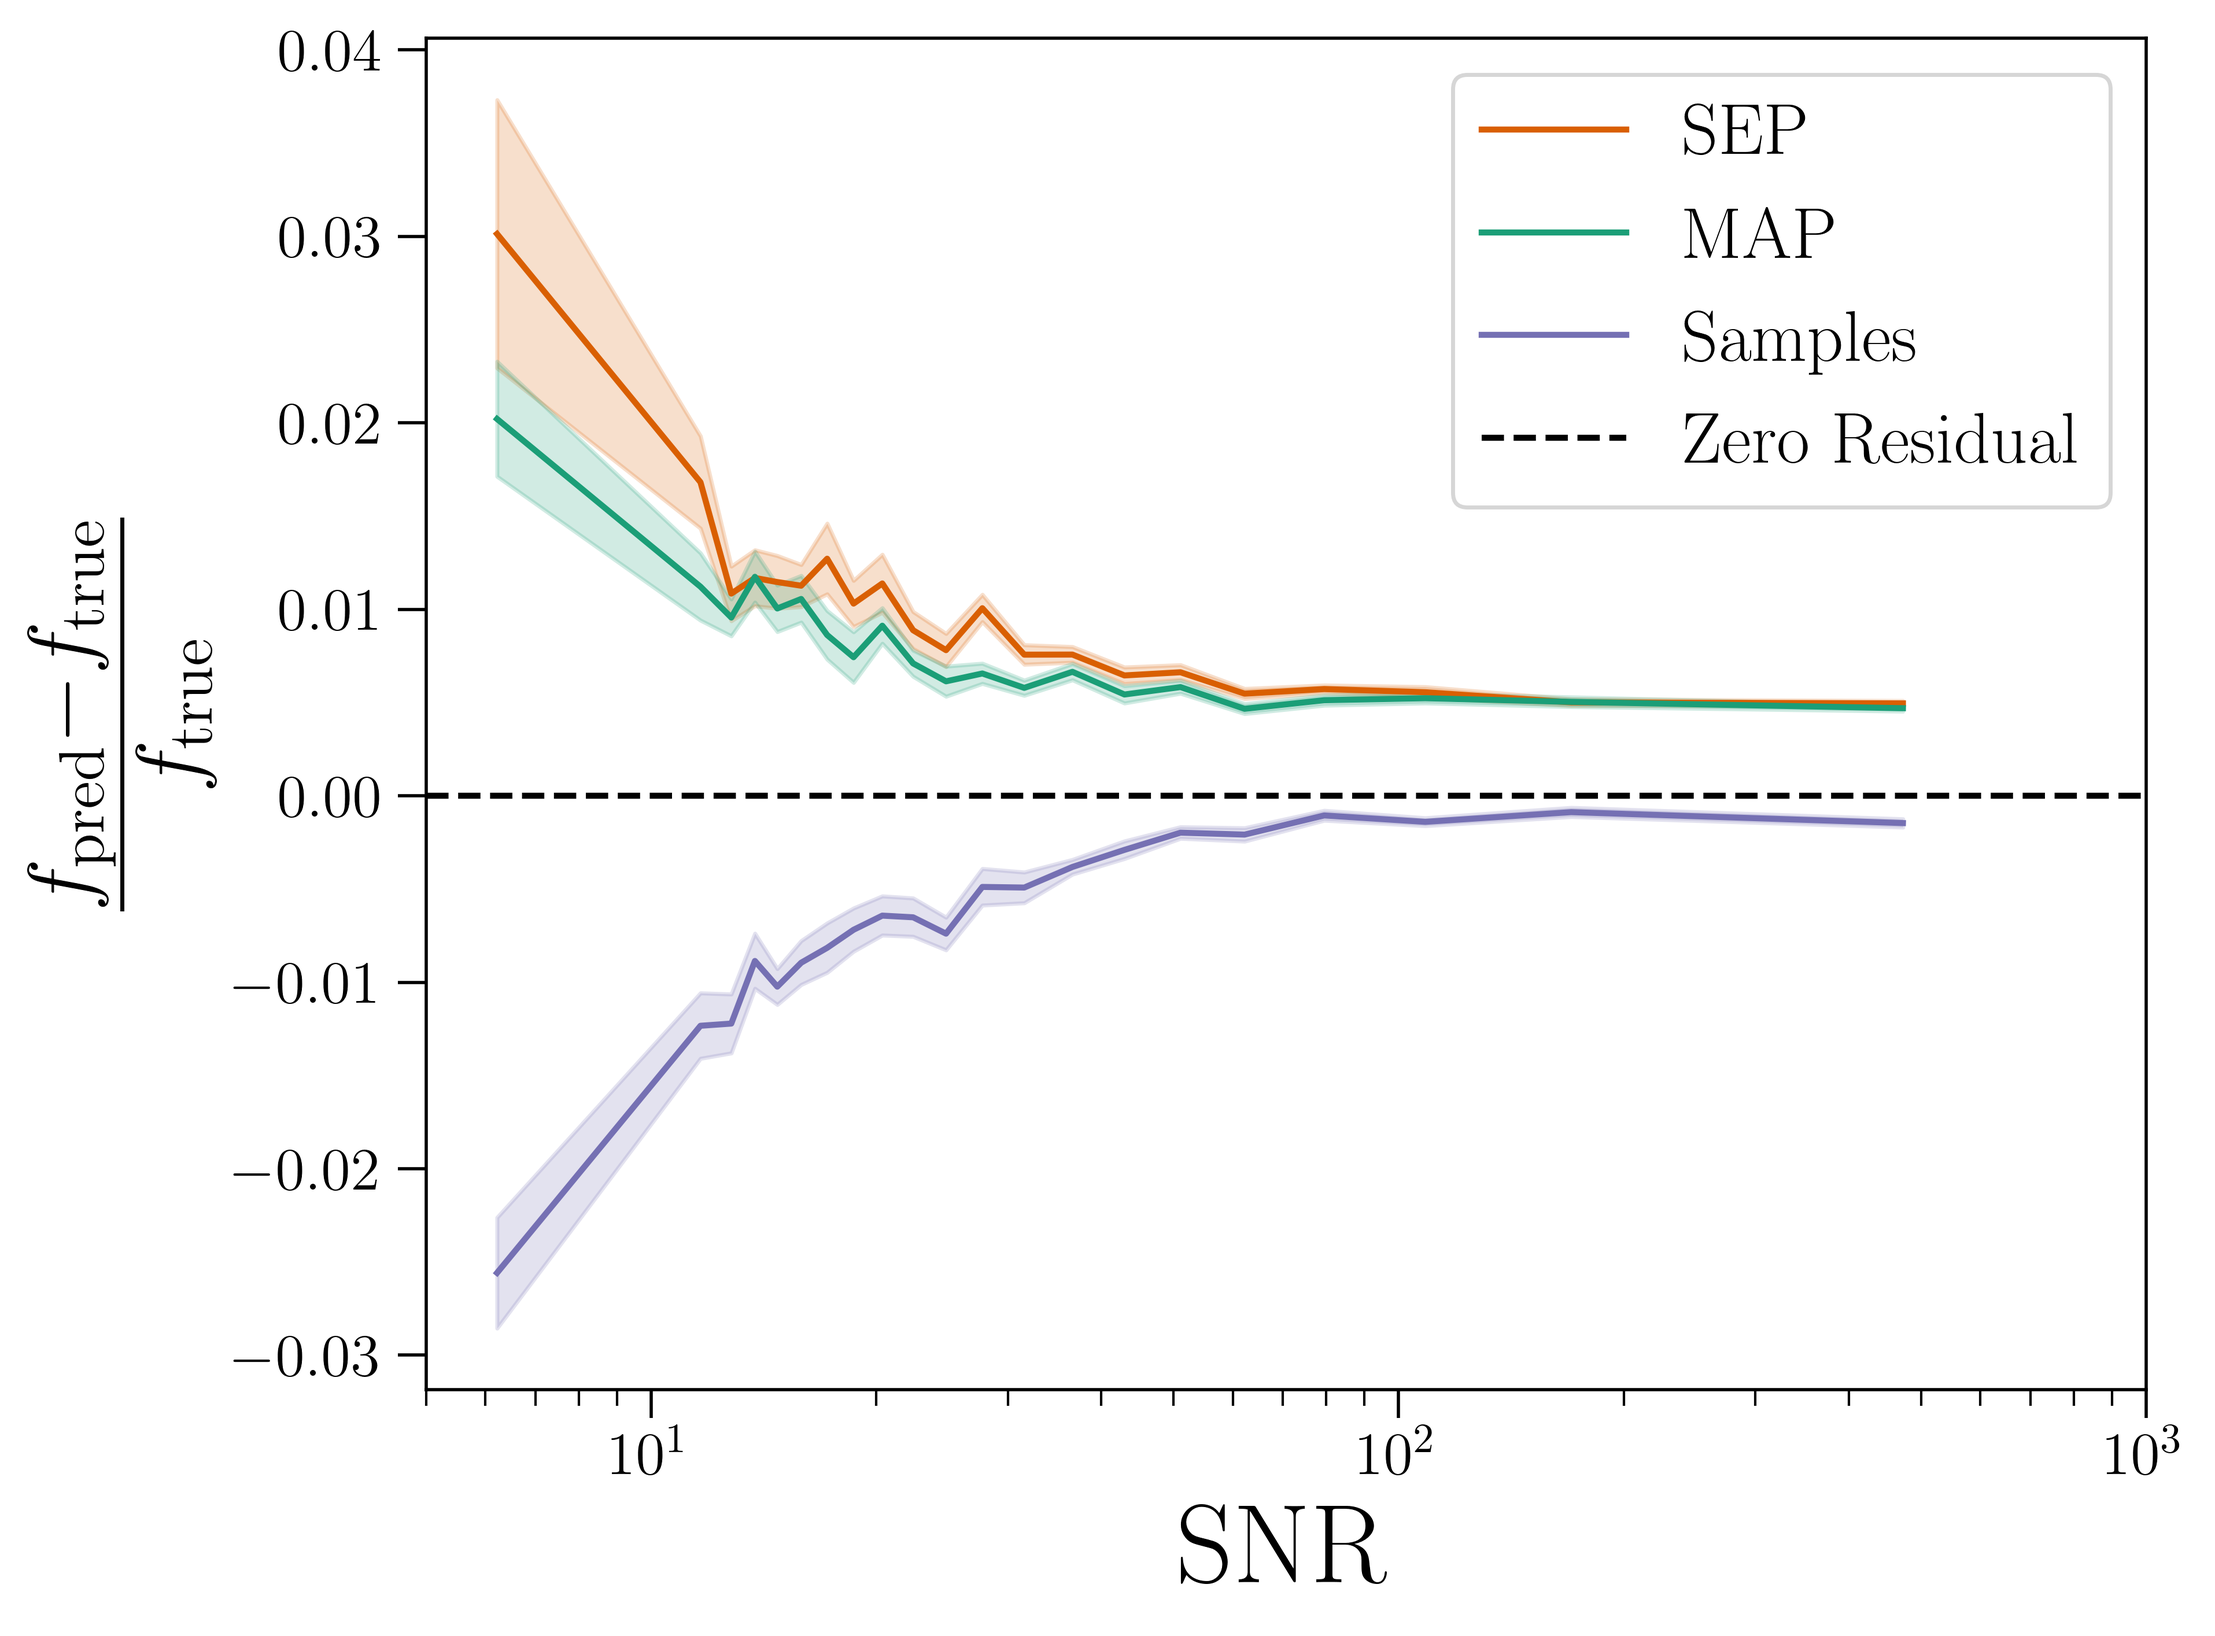
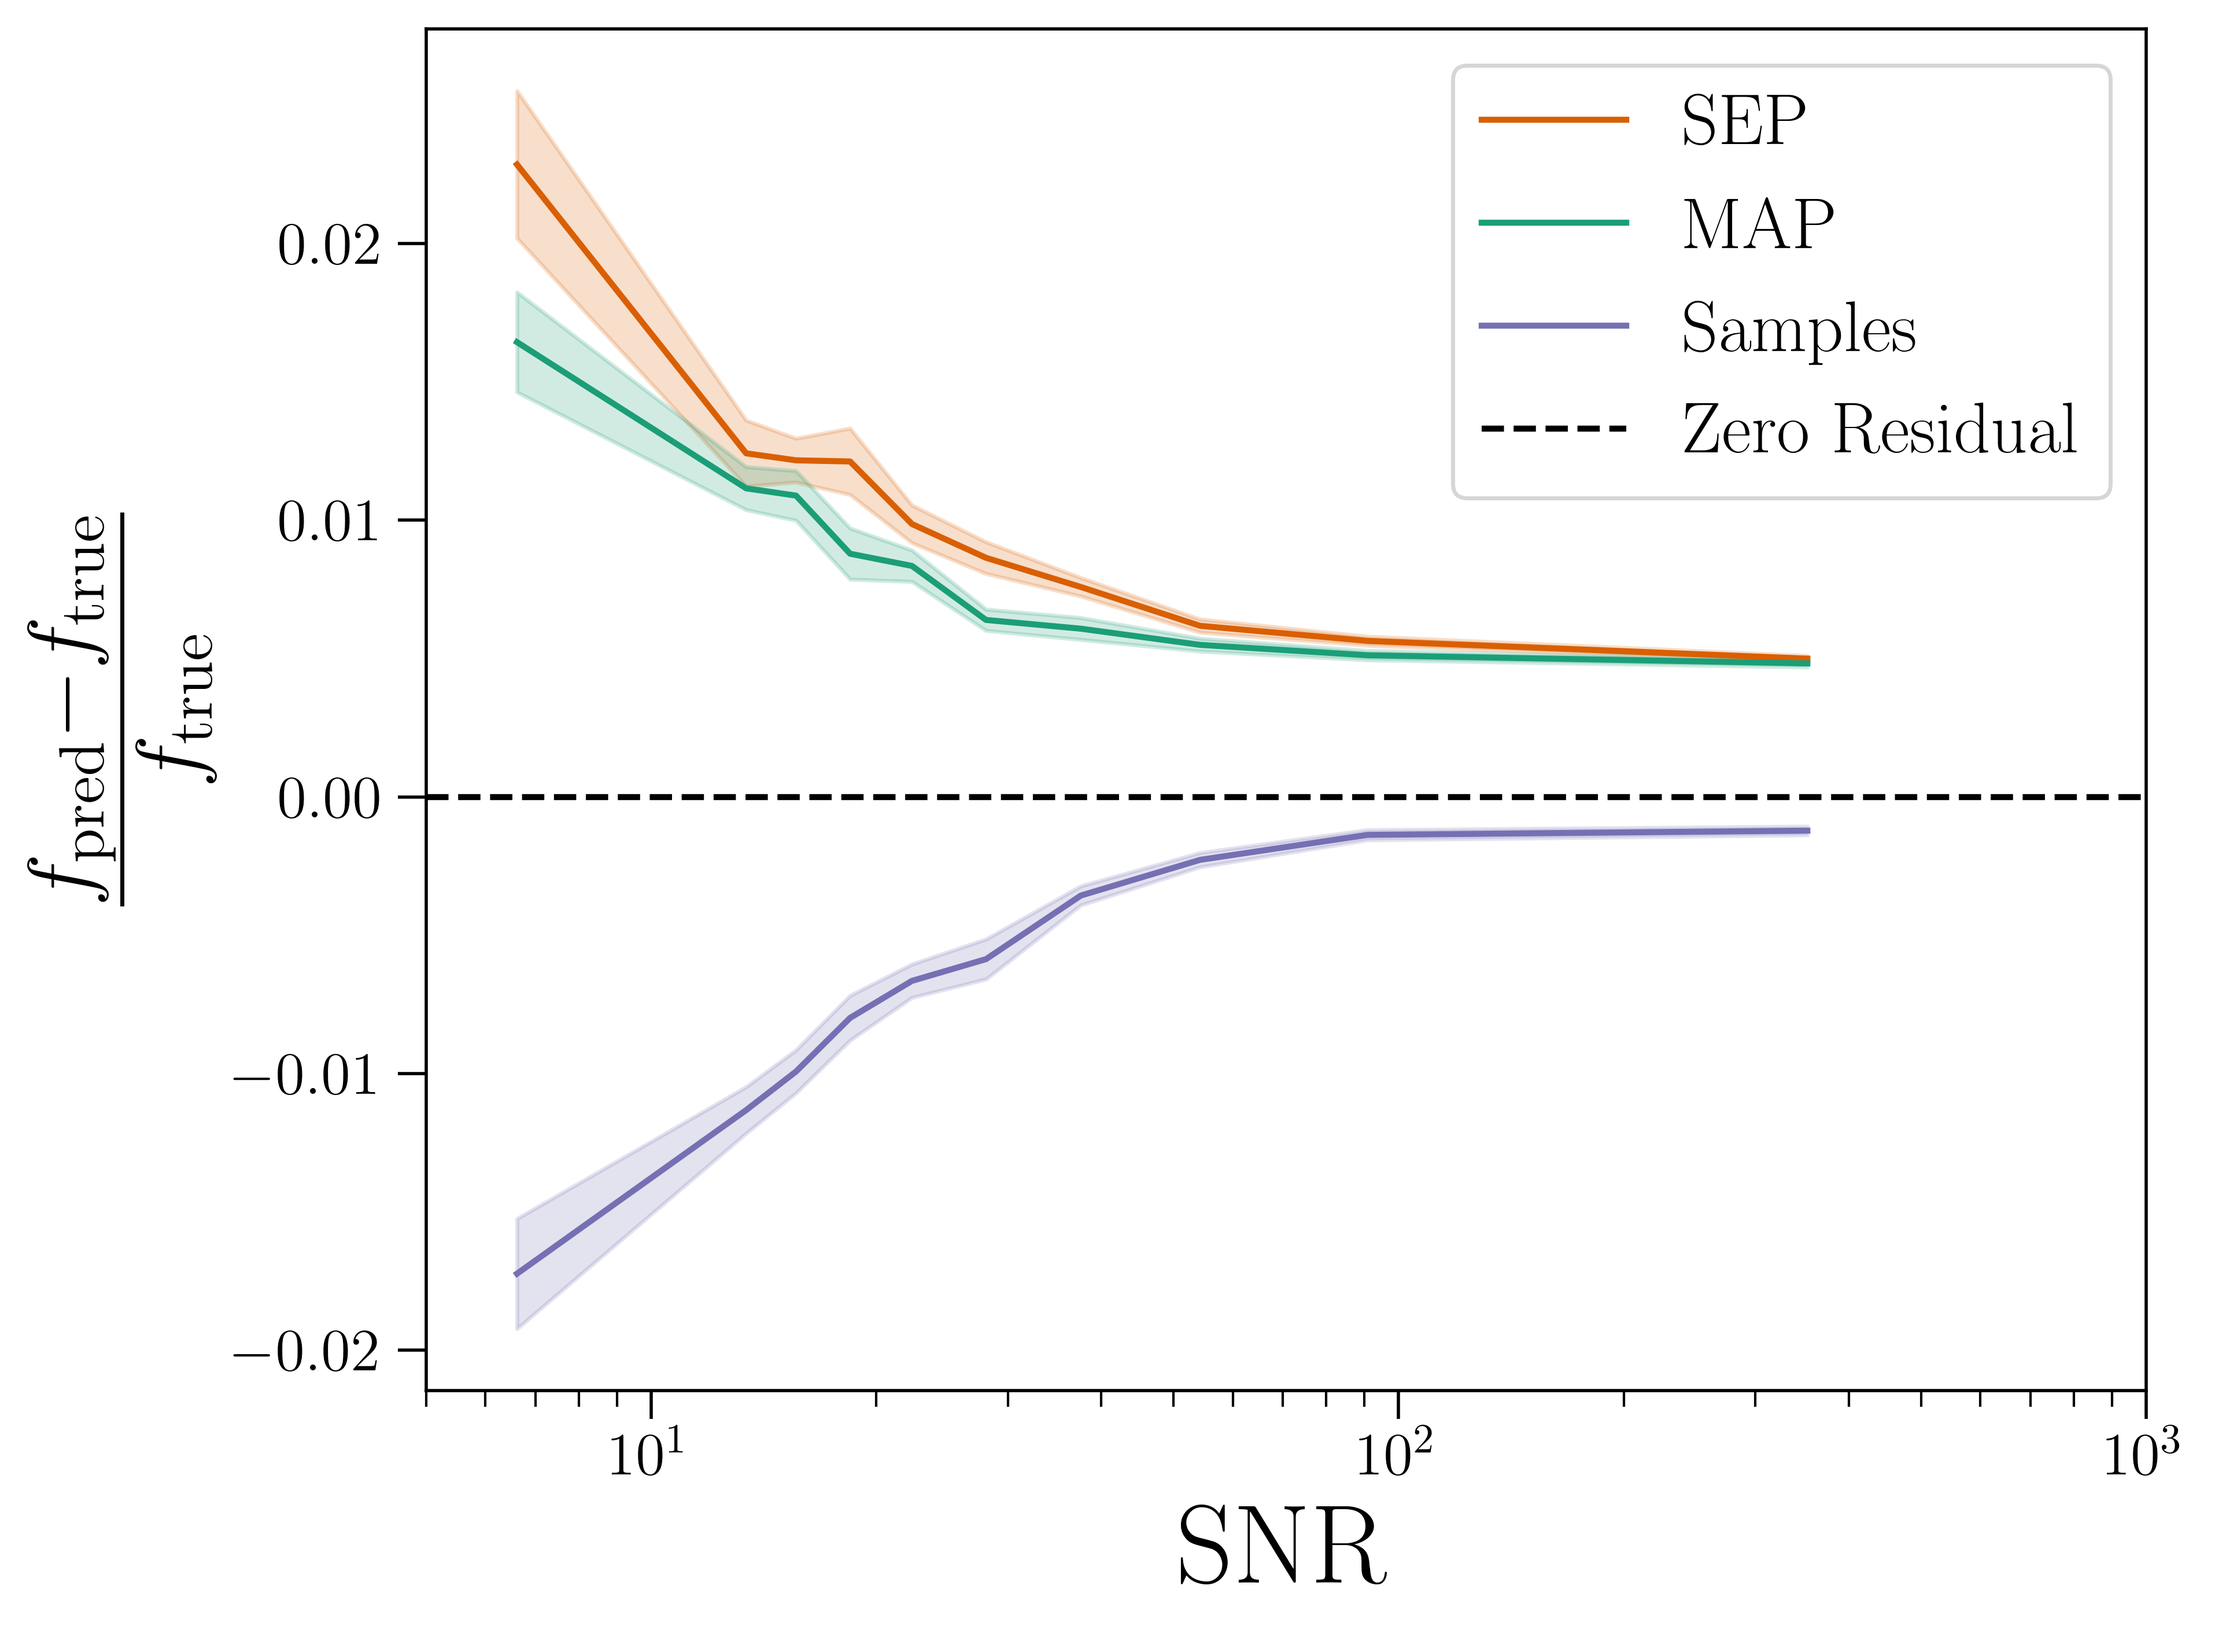
use bins mentioned in the paper

diff --git a/experiment/scripts/figures/sampling_figures.py b/experiment/scripts/figures/sampling_figures.py
@@ -482,6 +482,8 @@ def _make_final_results_figures(*, out_dir: Path, rslts: dict) -> None:
         & ~torch.isnan(sep_fluxes)
     )
 
+    print("# of discarded NaN objects (non-detections):", len(mask_all) - sum(mask_all))
+
     res1 = res1[mask_all]
     res2 = res2[mask_all]
     res3 = res3[mask_all]
@@ -494,7 +496,7 @@ def _make_final_results_figures(*, out_dir: Path, rslts: dict) -> None:
     set_rc_params()
 
     # now snr
-    n_bins = 21
+    n_bins = 10
     out1 = equal_sized_bin_statistic(
         x=true_snr.log10(), y=res1, n_bins=n_bins, xlims=(0.5, 3), statistic="median"
     )
@@ -541,9 +543,8 @@ def _make_final_results_figures(*, out_dir: Path, rslts: dict) -> None:
     fig.savefig(out_dir / "samples_snr_res.png", dpi=500, bbox_inches="tight")
 
     # as a function of blendedness
-
     # first define bins (as described in paper)
-    qs = torch.linspace(0.12, 0.99, 31)
+    qs = torch.linspace(0.12, 0.99, 21)
     edges = bld.quantile(qs)
     bins = torch.tensor([0.0, *edges[1:-1], 1.0])
 
